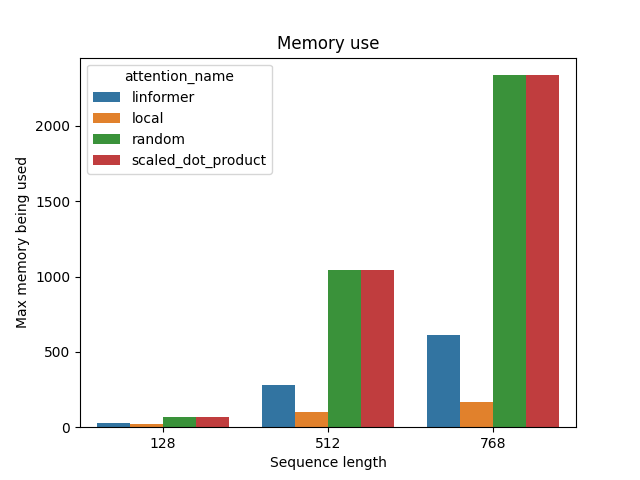
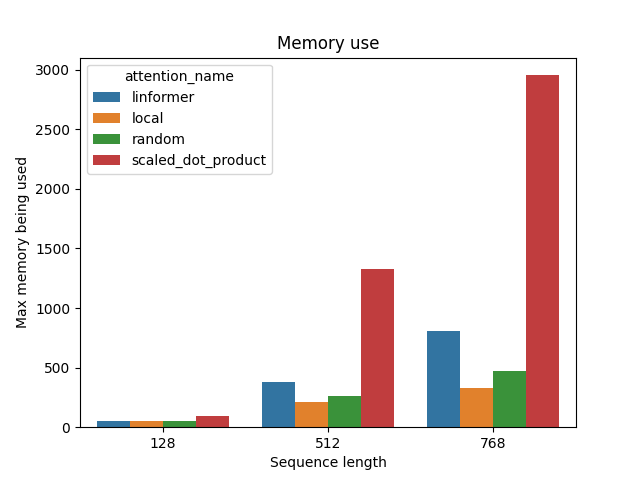
[feat] Core sparse attention implementation (#29)
* Focusing on the core sparse attention implementation for now

diff --git a/xformers/components/attention/random.py b/xformers/components/attention/random.py
@@ -1,20 +1,17 @@
-import math
 from dataclasses import dataclass
 from typing import Optional
 
 import torch
 import torch.nn as nn
-import torch.nn.functional as F
 
 from xformers.components.attention import Attention, AttentionConfig, register_attention
+from xformers.components.attention.core import scaled_dot_product_attention
 
 
 @dataclass(init=False)
 class RandomAttentionConfig(AttentionConfig):
     r: float  # the ratio of keys that the query can attend to. 1.0 means dense attention
     constant_masking: bool  # whether the randomness is per query or defined at construction time
-    from_seq_dim: int
-    to_seq_dim: Optional[int] = None
 
 
 @register_attention("random")
@@ -22,8 +19,6 @@ class RandomAttention(Attention):
     def __init__(
         self,
         dropout: float,
-        from_seq_dim: int,
-        to_seq_dim: Optional[int] = None,
         r: float = 0.5,
         constant_masking: bool = True,
         *args,
@@ -32,33 +27,31 @@ class RandomAttention(Attention):
         """
         "Random" attention, as proposed for instance in _BigBird.
         Random means in that case means that each query can attend to a random set of keys.
+        This implementation is sparse-aware, meaning that the empty attention parts will not be represented in memory.
 
         Args:
             r (float): the ratio in [0,1] of keys that the query can attend to
             constant_masking (bool): if true, keep the same random set for all queries.
-
-        .. warning: the current implementation does not lead to saved memory, could be changed for biggest sizes
-            (by using sparse matrices)
 
         _BigBird: "Zaheer, M., Guruganesh, G., Dubey, A., Ainslie, J., Alberti, C., Ontanon, S., Pham, P., Ravula,
          A., Wang, Q., Yang, L., & Ahmed, A. (2020). Big Bird: Transformers for Longer Sequences. ArXiv, NeurIPS."
         """
         super().__init__()
 
-        if to_seq_dim is None:
-            to_seq_dim = from_seq_dim
-
-        self.from_seq_dim = from_seq_dim
-        self.to_seq_dim = to_seq_dim
-
         self.attn_drop = nn.Dropout(dropout, inplace=True)
 
         self.r = r
-        self.rand_mask = self._get_rand_mask()
+        self.rand_mask: Optional[torch.Tensor] = None
         self.constant_masking = constant_masking
 
-    def _get_rand_mask(self) -> torch.Tensor:
-        return torch.FloatTensor(self.from_seq_dim, self.to_seq_dim).uniform_() < self.r
+    def _get_rand_mask(self, shape: torch.Size) -> torch.Tensor:
+        mask = torch.FloatTensor(shape[0], shape[1], shape[1]).uniform_() < self.r
+
+        # Sparsity threshold, below 5% having a sparse matrix is more efficient in that case
+        if self.r < 0.05:
+            mask = mask.to_sparse()
+
+        return mask
 
     def forward(
         self,
@@ -70,26 +63,18 @@ class RandomAttention(Attention):
         **kwargs
     ):
 
-        # Self-attend: (B, nh, S, hs) x (B, nh, hs, S) -> (B, nh, S, S)
-        att = (q @ k.transpose(-2, -1)) * (1.0 / math.sqrt(k.size(-1)))
+        # Flatten the head dimension
+        # was [Batch x Heads x Sequence x HeadSize]
+        q, k, v = map(lambda t: t.transpose(1, 2).flatten(start_dim=2), (q, k, v))
 
         # Rand masking
-        if not self.constant_masking:
-            self.rand_mask = self._get_rand_mask()
+        if not self.constant_masking or self.rand_mask is None:
+            self.rand_mask = self._get_rand_mask(q.shape).to(q.device)
 
-        att[:, :, ~self.rand_mask] = -float("inf")
+        # Mask-aware attention
+        mask = self.rand_mask if input_mask is None else self.rand_mask & input_mask
 
-        # Optional masking
-        if input_mask is not None:
-            att += input_mask
-
-        # Softmax to get the attention probabilities, then optional dropout
-        att = F.softmax(att, dim=-1)
-        att = self.attn_drop(att)
-
-        # Get to the predicted values, for all heads
-        y = att @ v  # (B, nh, S, S) x (B, nh, S, hs) -> (B, nh, S, hs)
-        return y
+        return scaled_dot_product_attention(q, k, v, mask, dropout=self.attn_drop)
 
     @classmethod
     def from_config(cls, config: AttentionConfig) -> "Attention":

diff --git a/xformers/components/attention/core.py b/xformers/components/attention/core.py
@@ -1,0 +1,87 @@
+import math
+from typing import Optional
+
+import torch
+
+
+def _matmul_with_sparse_mask(
+    a: torch.Tensor, b: torch.Tensor, mask: torch.Tensor
+) -> torch.Tensor:
+    # TODO implement this in C++ / CUDA
+    # to save a bit more memory as we don't need to materialize some temporaries
+    assert a.ndim == b.ndim
+    assert mask.ndim == a.ndim
+    assert a.shape[-1] == b.shape[-2]
+    assert a.shape[-2] == mask.shape[-2], f"{a.shape}, {mask.shape}"
+    assert b.shape[-1] == mask.shape[-1], f"{b.shape}, {mask.shape}"
+    assert a.shape[:-2] == b.shape[:-2], f"{a.shape}, {b.shape}"
+    assert a.shape[:-2] == mask.shape[:-2], f"{a.shape}, {mask.shape}"
+    idxs = mask.indices().unbind()
+    b = b.transpose(-2, -1)
+
+    # compute matmul for elements within the mask
+    val = (a[idxs[:-2] + (idxs[-2], slice(None))] * b[idxs[:-2] + (idxs[-1], slice(None))]).sum(-1)  # type: ignore
+
+    out_shape = a.shape[:-1] + (b.shape[-2],)
+    res = torch.sparse_coo_tensor(torch.stack(idxs), val, out_shape)
+    return res
+
+
+def _matmul_with_mask(
+    a: torch.Tensor, b: torch.Tensor, mask: torch.Tensor
+) -> torch.Tensor:
+    if mask.is_sparse:
+        return _matmul_with_sparse_mask(a, b, mask)
+
+    res = a @ b
+    res[~mask] = float("-inf")
+    return res
+
+
+def _softmax(a: torch.Tensor) -> torch.Tensor:
+    if a.is_sparse:
+        return torch.sparse.softmax(a, dim=a.ndim - 1)
+    return torch.softmax(a, dim=a.ndim - 1)
+
+
+def _sparse_bmm(a: torch.Tensor, b: torch.Tensor) -> torch.Tensor:
+    # need to use torch.sparse.mm to get gradients wrt sparse matrix a
+    # TODO implement this in C++ / CUDA as this is slow!
+    out = []
+    for ai, bi in zip(a, b):
+        out.append(torch.sparse.mm(ai, bi))
+    return torch.stack(out, dim=0)
+
+
+def bmm(a: torch.Tensor, b: torch.Tensor) -> torch.Tensor:
+    if a.is_sparse:
+        return _sparse_bmm(a, b)
+    return a @ b
+
+
+def scaled_dot_product_attention(
+    q: torch.Tensor,
+    k: torch.Tensor,
+    v: torch.Tensor,
+    att_mask: torch.Tensor,
+    dropout: Optional[torch.nn.Module] = None,
+) -> torch.Tensor:
+    # TODO assume we have (N, S, hs) instead of (B, nh, S, hs), with N = B x nh
+    # this is needed due to limitations in sparse_bmm for now
+
+    # Self-attend: (N, S, hs) x (N, hs, S) -> (N, S, S)
+    att = _matmul_with_mask(q, k.transpose(-2, -1), att_mask) * (
+        1.0 / math.sqrt(k.size(-1))
+    )
+
+    # Softmax to get the attention probabilities
+    att = _softmax(att)
+
+    #  Optional dropout, could be part of the masking in the future
+    if dropout is not None:
+        att = dropout(att)
+
+    # Get to the predicted values, for all heads
+    # y = att @ v  # (N, S, S) x (N, S, hs) -> (N, S, hs)
+    y = bmm(att, v)
+    return y

diff --git a/tests/test_core_attention.py b/tests/test_core_attention.py
@@ -1,0 +1,18 @@
+import torch
+
+from xformers.components.attention.core import scaled_dot_product_attention
+
+
+def test_core_attention():
+    b, s, d = 8, 900, 32
+    prob = 0.95
+
+    a = torch.rand(b, s, d)
+    m = torch.rand(b, s, s) > prob
+    m = m.to_sparse()
+
+    # Check that the sparse and dense computations are equivalent
+    r_sparse = scaled_dot_product_attention(a, a, a, m)
+    r_dense = scaled_dot_product_attention(a, a, a, m.to_dense())
+
+    assert torch.allclose(r_sparse, r_dense)

diff --git a/xformers/components/attention/scaled_dot_product.py b/xformers/components/attention/scaled_dot_product.py
@@ -36,8 +36,6 @@ class ScaledDotProduct(Attention):
         else:
             self.mask = None
 
-    # DEBUG
-
     def forward(
         self,
         q: torch.Tensor,
